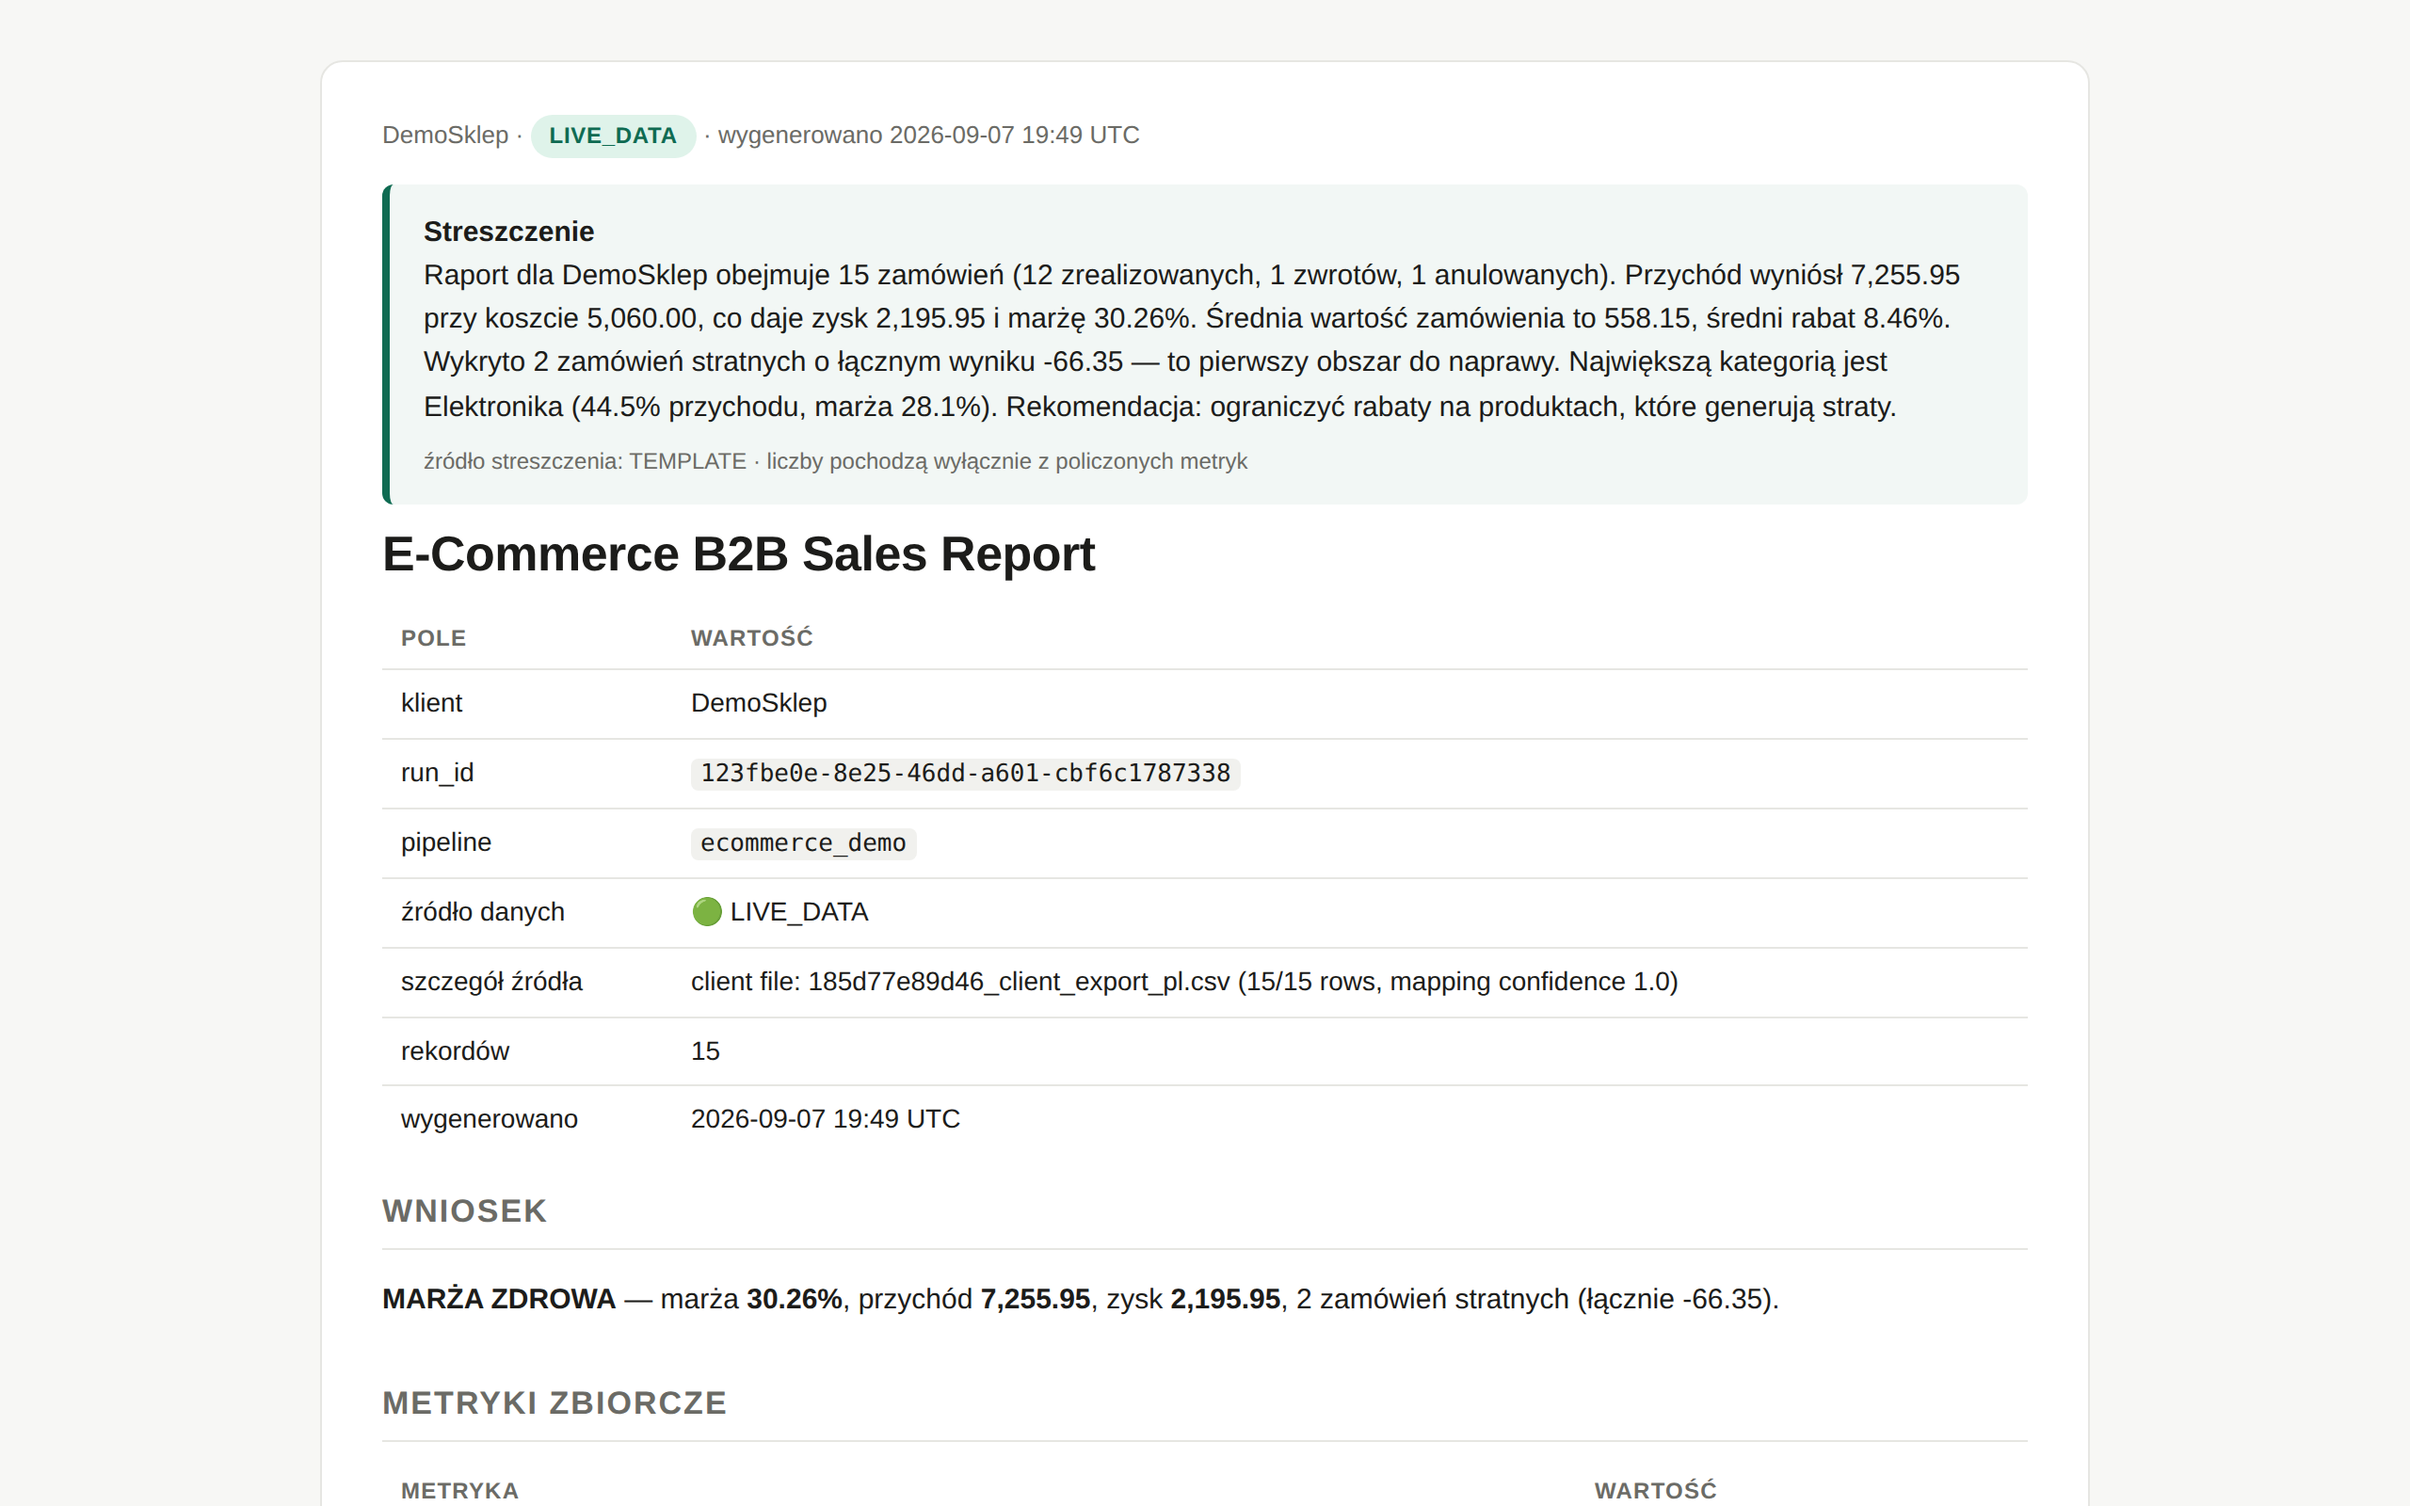
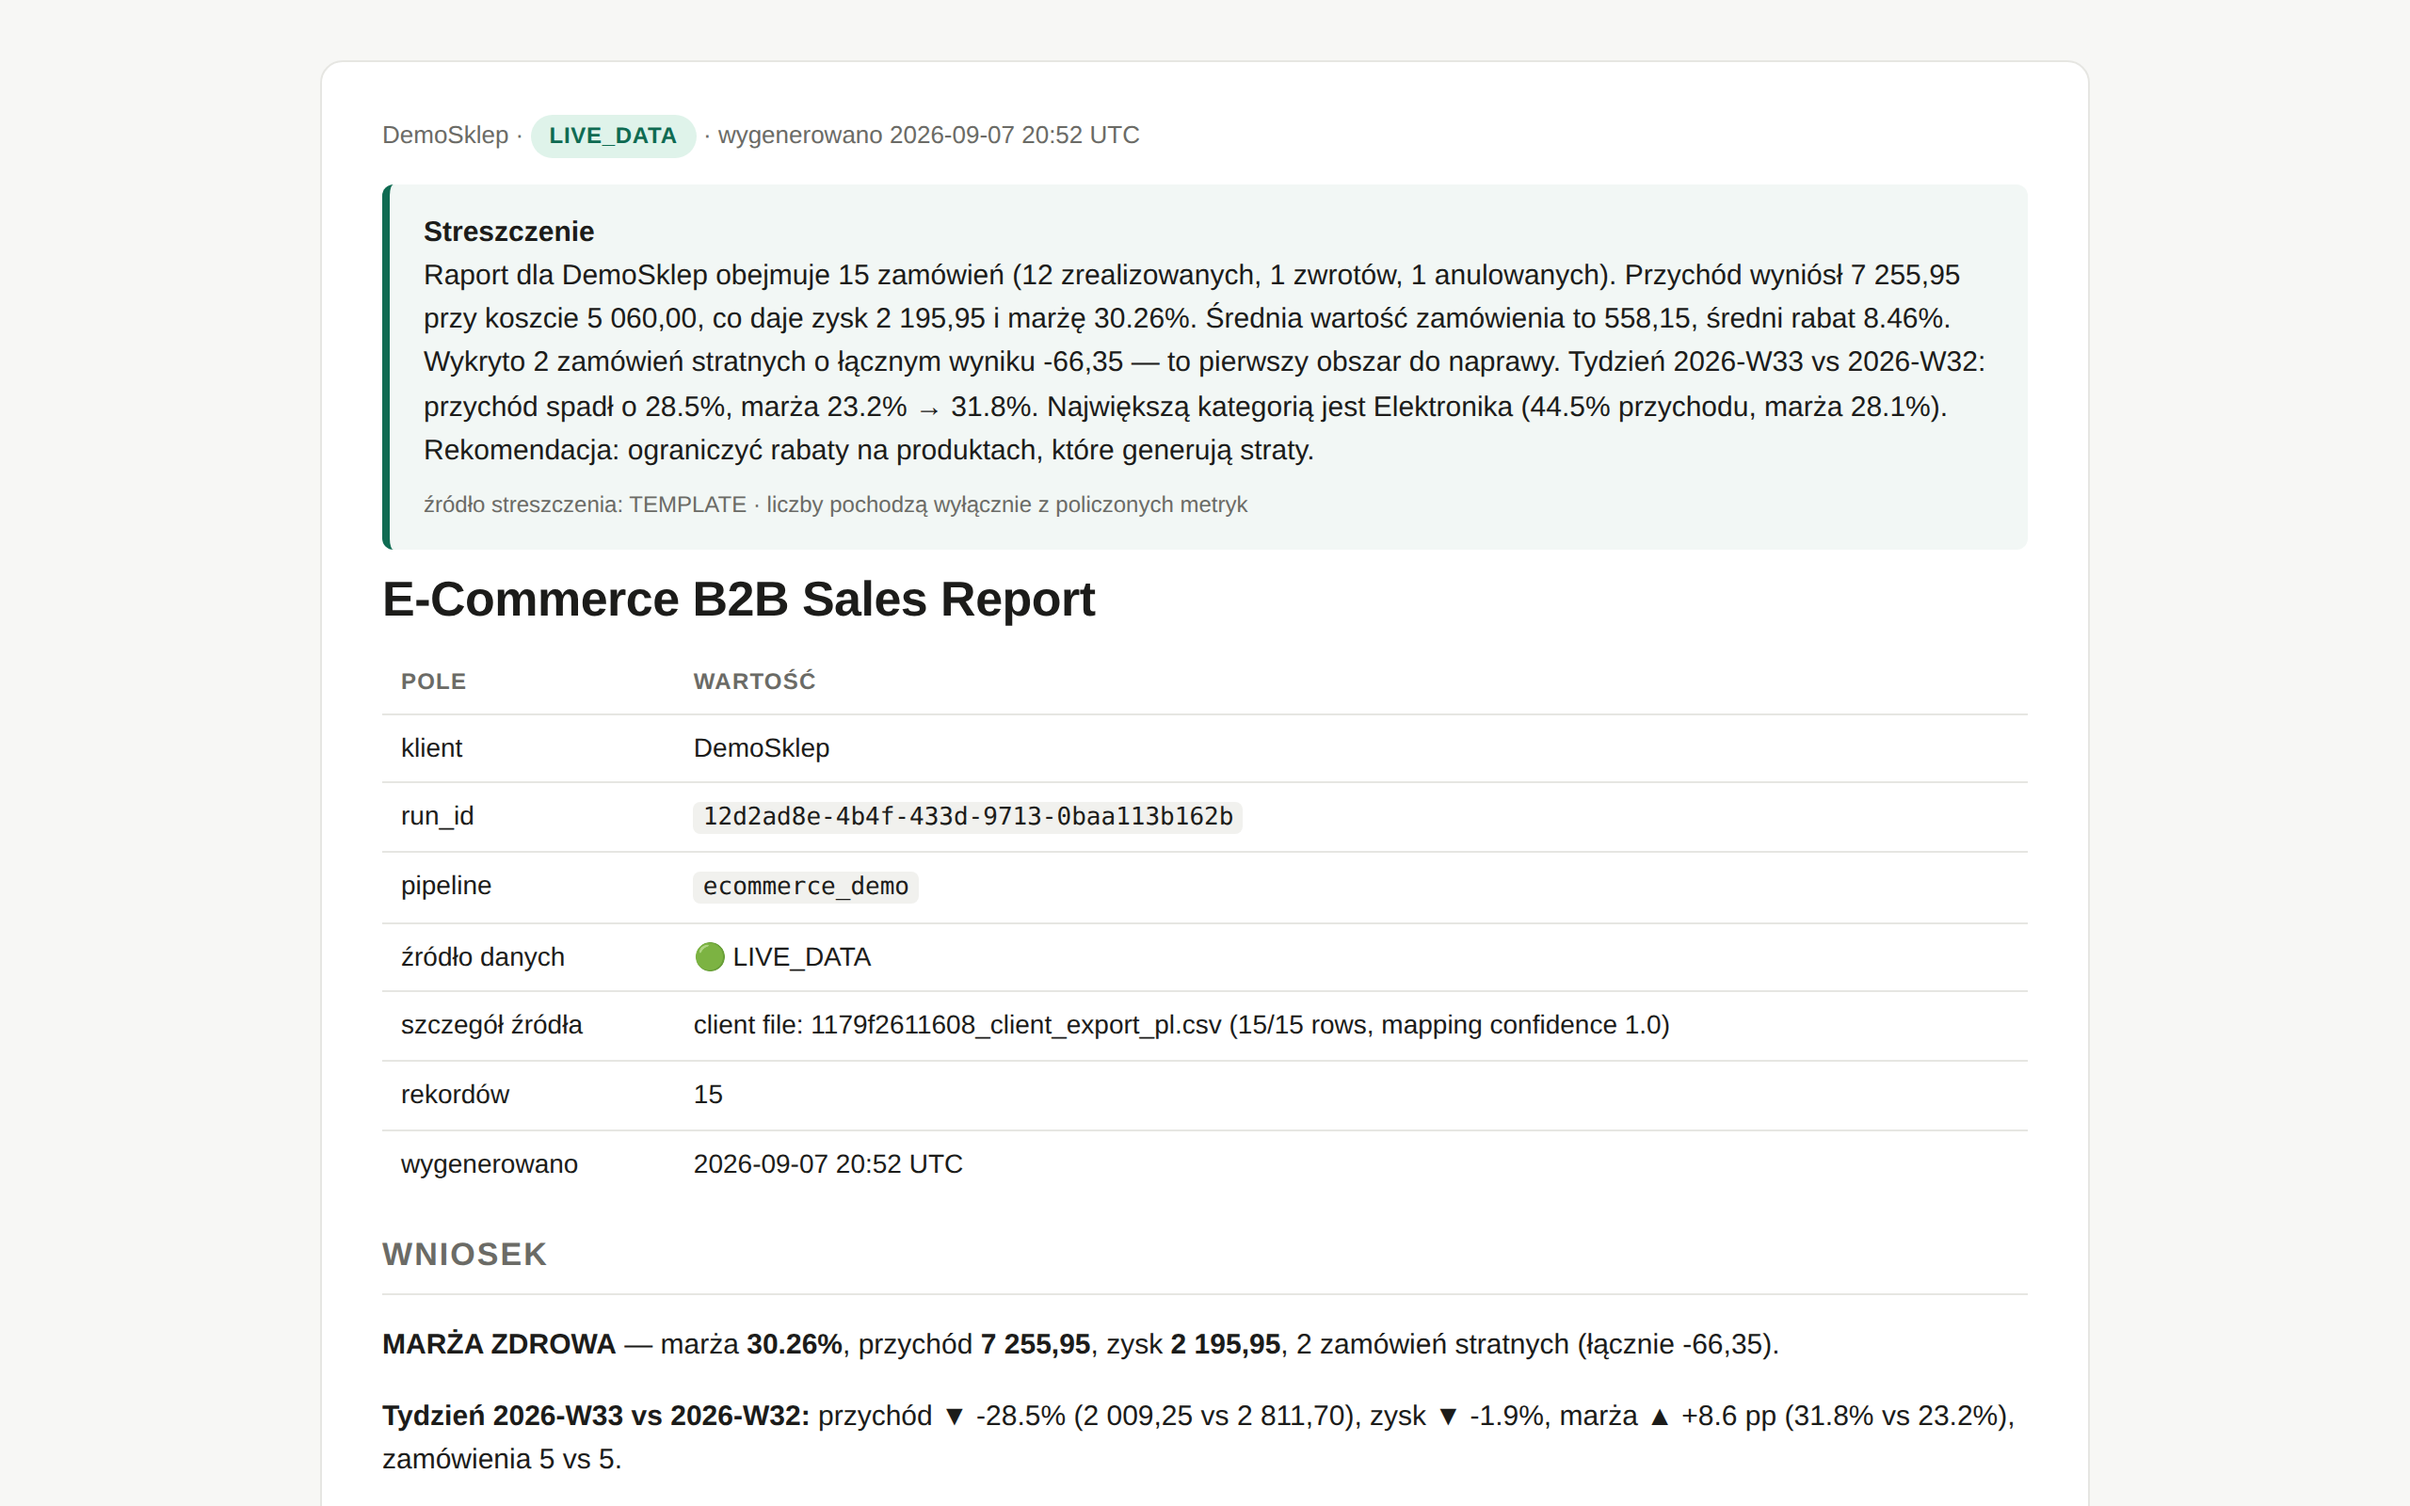
v0.3: XLSX upload test, wow + weeks_in_data in /run response for n8n alerts; docs image refresh

Changed region(s): [[0.1562, 0.2188, 0.8438, 1.0]]

diff --git a/tests/test_client_upload.py b/tests/test_client_upload.py
@@ -184,3 +184,27 @@ def test_api_upload_rejects_bad_input(client: TestClient):  # noqa: F811
     assert client.post("/upload", files={"file": ("x.csv", b"   ", "text/csv")}).status_code == 400
     bad = client.post("/upload", files={"file": ("x.csv", b"a;b\n1;2\n", "text/csv")})
     assert bad.status_code == 422 and "przychodu" in bad.json()["detail"]
+
+
+def test_api_upload_xlsx_export(client: TestClient, tmp_path):  # noqa: F811
+    """Eksport XLSX (Allegro/Shoper/Excel) z polskimi nagłówkami i kwotami jako tekst → mapowanie → LIVE_DATA."""
+    import io
+    import openpyxl
+
+    df = read_client_csv(str(PL_FIXTURE))
+    wb = openpyxl.Workbook()
+    ws = wb.active
+    ws.append(list(df.columns))
+    for row in df.itertuples(index=False):
+        ws.append([str(v) for v in row])
+    buf = io.BytesIO()
+    wb.save(buf)
+    r = client.post("/upload", files={"file": ("export_allegro.xlsx", buf.getvalue(),
+                                              "application/vnd.openxmlformats-officedocument.spreadsheetml.sheet")},
+                    data={"client_name": "Sklep XLSX"})
+    assert r.status_code == 200, r.text
+    up = r.json()
+    assert up["ready"] and up["rows"] == 15 and up["confidence"] == 1.0
+    run = client.post("/run", json=up["run_payload"]).json()
+    assert run["run_status"] == "SUCCESS" and run["data_status"] == "LIVE_DATA"
+    assert run["metrics"]["wow"] is not None and run["metrics"]["weeks_in_data"] == 3

diff --git a/app/pipelines/runner.py b/app/pipelines/runner.py
@@ -152,4 +152,8 @@ def _summary(metrics: Any) -> dict[str, Any]:
     """Kompaktowe metryki do odpowiedzi API (pełne w raporcie JSON)."""
     d = metrics.model_dump() if hasattr(metrics, "model_dump") else dict(metrics)
     keep = [k for k, v in d.items() if not isinstance(v, (list, dict))]
-    return {k: d[k] for k in keep}
+    out = {k: d[k] for k in keep}
+    if "wow" in d:                       # e-commerce: delta tydzień-do-tygodnia jest mała i kluczowa dla alertów w n8n
+        out["wow"] = d["wow"]
+        out["weeks_in_data"] = len(d.get("weekly") or [])
+    return out
